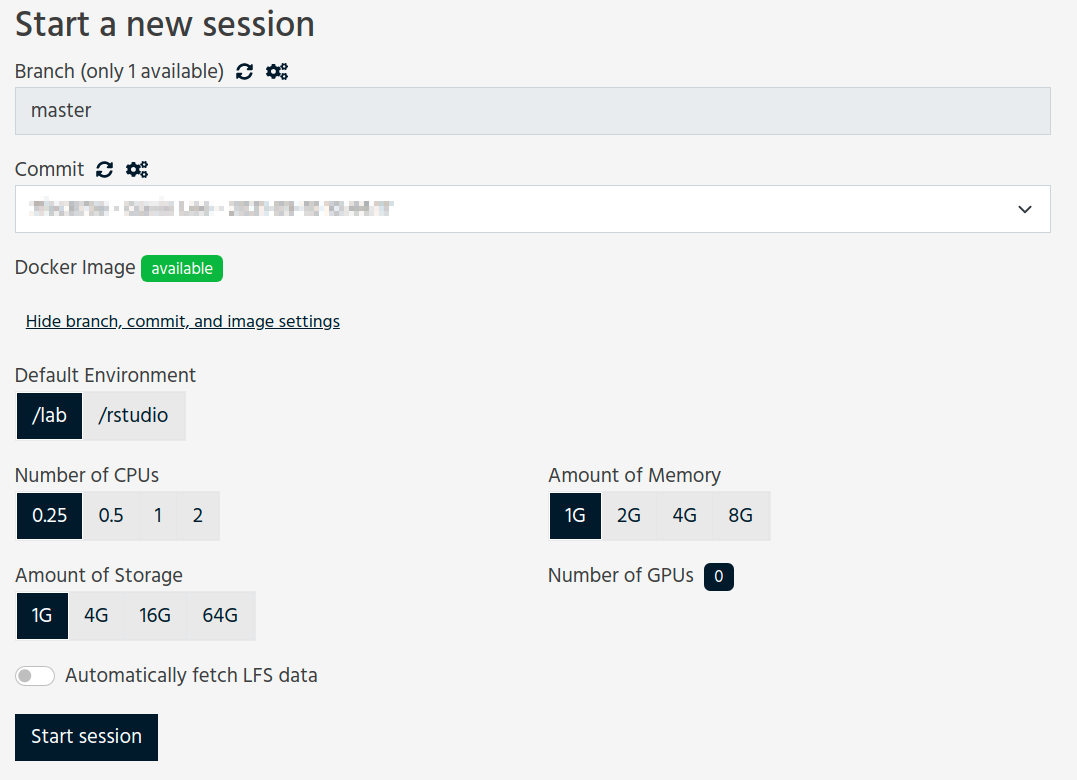
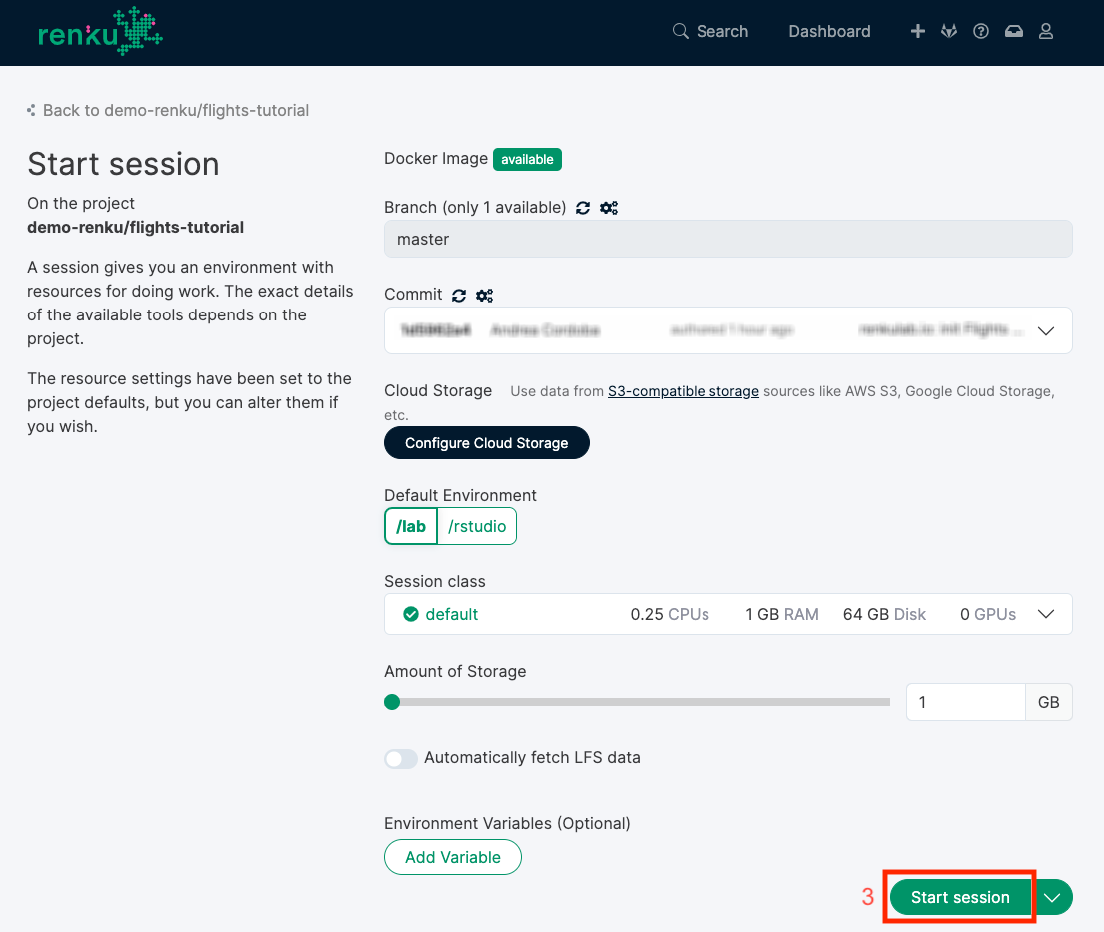
docs: Update "Get started" tutorial to match the UI style (#3181) (#3196)
Fix #3181

diff --git a/docs/tutorials/first_steps/11_sharing_is_caring.rst b/docs/tutorials/first_steps/11_sharing_is_caring.rst
@@ -11,15 +11,25 @@ A view of Issues and Merge Requests
 
 Let us start by going back to the Renku web interface on renkulab.io_ or
 whichever instance you are using for this tutorial. Make sure you are logged
-in, so you can see your projects list by clicking on ``Projects`` in the top
+in, so you can see your projects list by clicking on ``Dashboard`` in the top
 navigation bar.
 
-Click on your ``Flights-tutorial`` project to open it and then go to the 
-**Collaboration** tab (1). Here we provide quick access into the GitLab Issues
-and Merge Requests view. You can view and create new Issues and Merge Requests
-directly from this view. It is probably empty
-at the moment, so let us start a new discussion by clicking on the
-**New Issue** button (2).
+Click on your ``Flights-tutorial`` project to open it. Look for the GitLab drop-down button (1). 
+This button provides a quick way to access GitLab features. 
+One of these options is "Issues" (2). 
+Click on this option to view the existing Issues related to your project.
+
+
+.. image:: ../../_static/images/ui_05_gitlab-issue.png
+    :width: 85%
+    :align: center
+    :alt: Gitlab access to Issues and Merge Requests
+
+
+While on the GitLab page, you can also create new Issues 
+or Merge Requests. This allows you to contribute to the project by suggesting enhancements, 
+reporting bugs, or proposing code changes. Since the current state might show no content, you can begin a fresh discussion
+by clicking the **New Issue** button (3).
 
 .. image:: ../../_static/images/ui_05_new-issue.png
     :width: 85%
@@ -40,8 +50,8 @@ The issues can be viewed directly in this window.
     :width: 85%
     :align: center
     :alt: Issues in Gitlab view
-    
-Once the issue has been resolved, it can be closed in the same way (1).    
+
+Once the issue has been resolved, it can be closed in the same way (1).
 
 .. image:: ../../_static/images/ui_06_issues-close.png
     :width: 85%

diff --git a/docs/tutorials/first_steps/02_start_an_interactive_session.rst b/docs/tutorials/first_steps/02_start_an_interactive_session.rst
@@ -16,7 +16,7 @@ There are a few ways of initiating a session. The one-click **Start** button
 (1) uses all the default settings to initiate a session.
 
 This would be sufficient for this tutorial, however you may also click on
-**New session** (2) to customize the settings with which to start a session. 
+**Start with options** (2) to customize the settings with which to start a session.
 For example, you can select the computational requirements and commit to launch
 from.
 
@@ -24,6 +24,7 @@ from.
     :width: 100%
     :align: center
     :alt: Head to sessions page
+
 
 
 The Docker image takes some time to build, it's possible that the
@@ -57,12 +58,10 @@ Wait until its color has turned to green and the status from
     :align: center
     :alt: Ready to start
 
-You can now connect to your session by clicking on the **Open** button (1),
-which will open the session in the same browser tab, or you can **Open in new tab**
-(2) which will open the session in a new tab. You can have both of these open
-at the time time too, so you do not need to worry about choosing between the two.
+You can now connect to your session by clicking the **Connect** button (1) from the Dashboard
+or from the project view, which will open the session in the same browser tab.
 
-.. image:: ../../_static/images/ui_03_start-session-open.png
+.. image:: ../../_static/images/ui_03_start-session-connect.gif
     :width: 100%
     :align: center
     :alt: Connect to environment

diff --git a/docs/tutorials/first_steps/01_create_project.rst b/docs/tutorials/first_steps/01_create_project.rst
@@ -10,8 +10,8 @@ the Renku web interface.
 On renkulab.io_ you can create an account or sign in with your GitHub
 identity by clicking on the corresponding button.
 
-Once logged in, create a new project by going to the **Projects** (1) page
-and clicking on the **New Project** (2) button.
+Once logged in, create a new project by going to the **Dashboard** (1) page
+and clicking on the **Create a new project** (2) button.
 
 .. image:: ../../_static/images/ui_01_create-project.png
     :width: 100%
